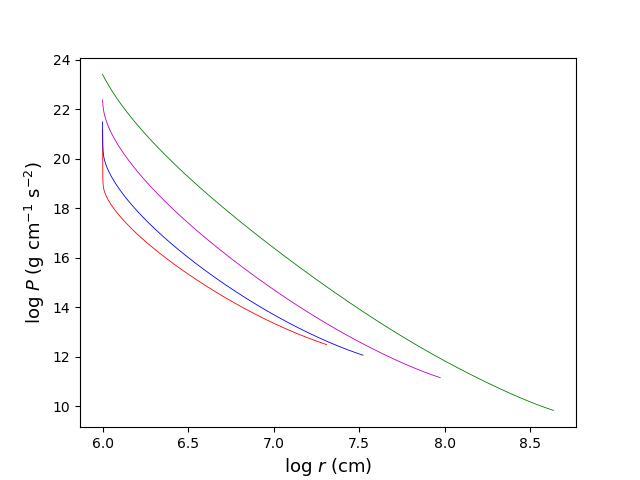
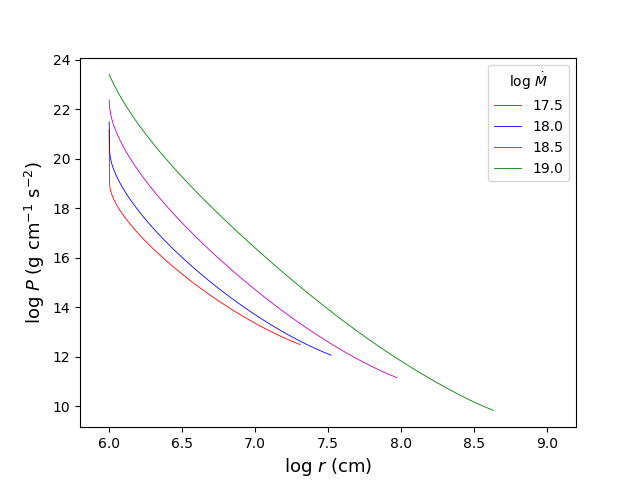
tuesday4

diff --git a/Plots.py b/Plots.py
@@ -111,6 +111,8 @@ ax3.set_ylim([5.6, 10])
 ax4.legend(title=r'log $\dot{M}$', loc=1)
 ax4.set_xlim([5.8, 9.2])
 ax4.set_ylim([5, 9])
+ax5.legend(title=r'log $\dot{M}$', loc=1)
+ax5.set_xlim([5.8, 9.2])
 
 if save:
     fig1.savefig(path+'/plots/'+'Luminosity'+img_format)

diff --git a/README.md b/README.md
@@ -13,7 +13,7 @@ Uses a Newton-Raphson root finding approach to obtain the minimizing set of para
 
 To make plots :
 
-python Plots.py
+    python Plots.py
 
 Plots and tables are in the `results` subfolder, organized in directories describing the model:
 Composition_M/Msun_R/km_TauOuter_logPinner -> e.g `He_1.4_10_3_4/`
